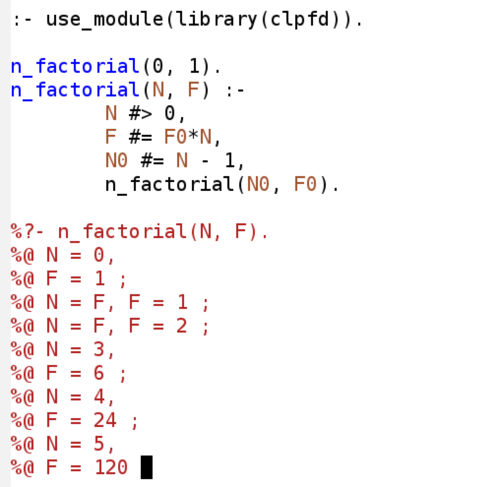
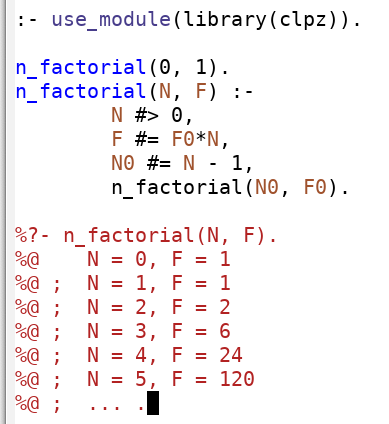
use library(clpz) and Scryer Prolog interaction in screenshot

diff --git a/README.md b/README.md
@@ -95,7 +95,7 @@ versions 26.1 and&nbsp;27.0.50.
 # Screenshot
 
 Here is a sample interaction, using
-[CLP(FD)&nbsp;constraints](https://www.metalevel.at/prolog/clpfd) to
+[CLP(ℤ)&nbsp;constraints](https://www.metalevel.at/prolog/clpz) to
 relate a number to its factorial:
 
 ![Factorial](factorial.png)
